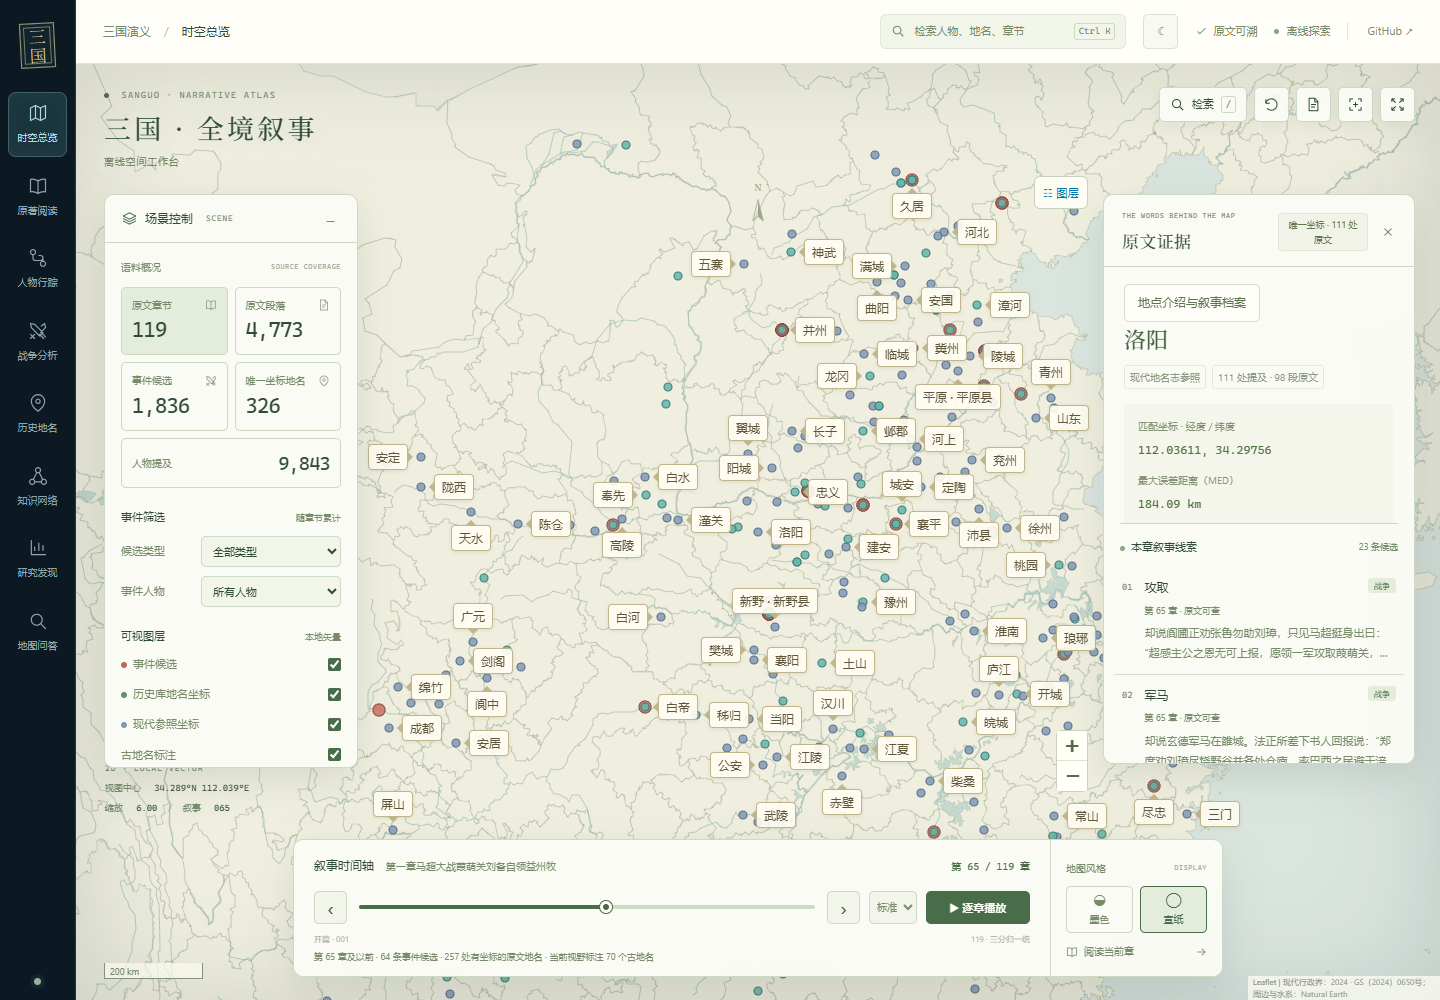
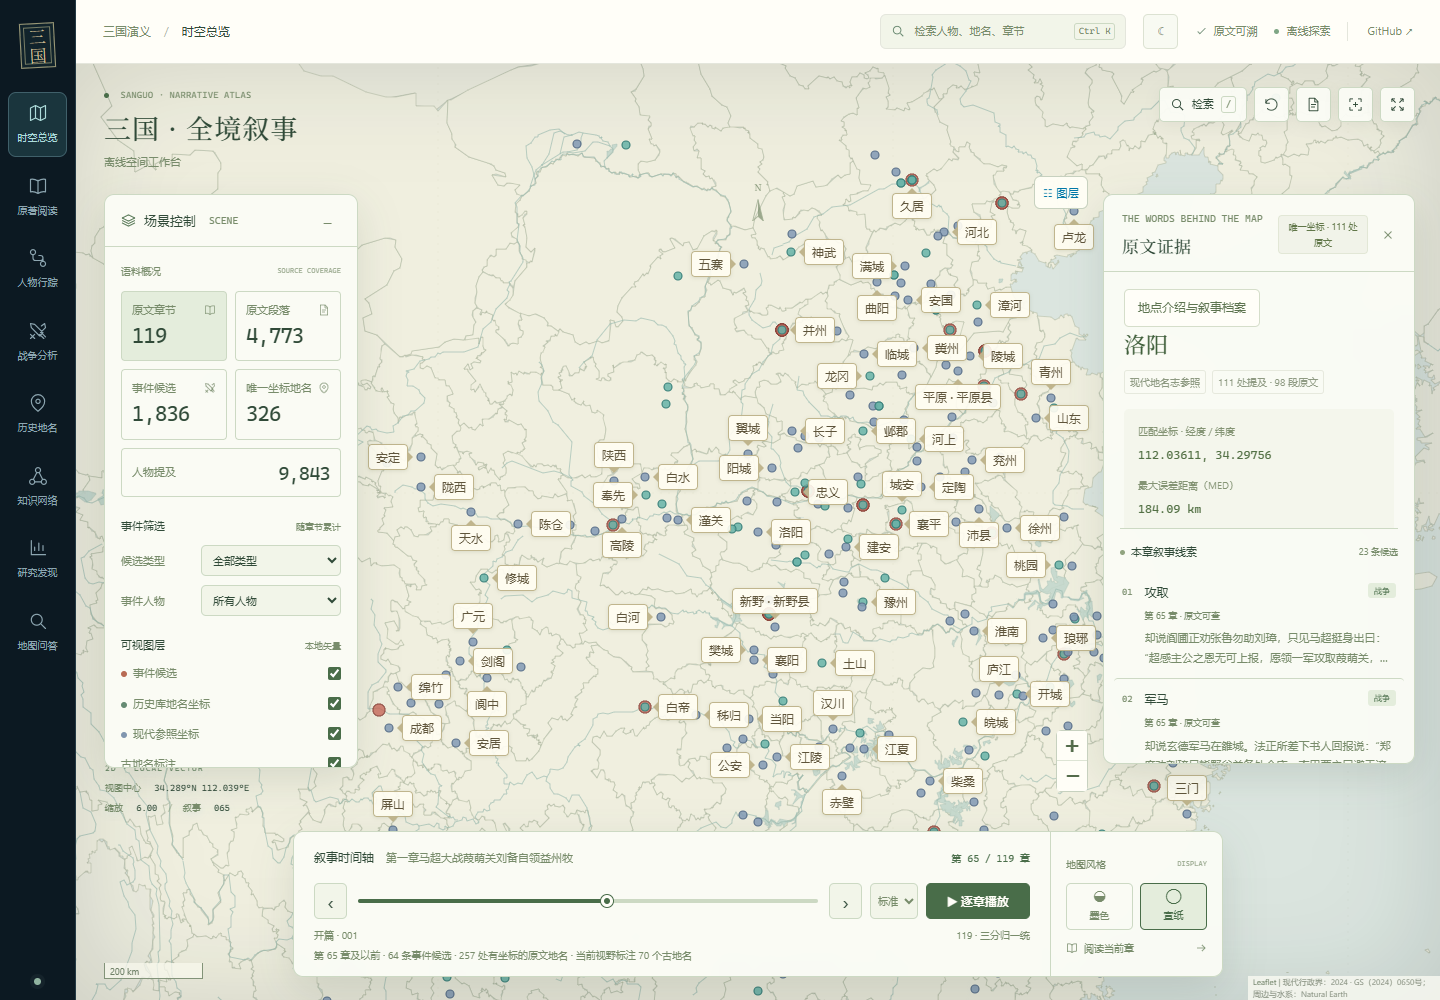
Refine atlas interface and add static deployment build

diff --git a/frontend/app.js b/frontend/app.js
@@ -34,7 +34,33 @@ function paragraphOrder(event) { return event.narrative_order || event.chapter_o
 function findChapter(id) { return state.chapters.find(row => row.chapter_id === id); }
 function geocodeByName(name) { return state.geocodeIndex?.get(name) || state.geocodes.find(row => row.historical_toponym === name); }
 
-async function loadData() {
+async function optionalJson(url) {
+  const response = await fetch(url);
+  if (response.status === 404) return null;
+  if (!response.ok) throw new Error(`${url}: HTTP ${response.status}`);
+  return response.json();
+}
+
+async function bundledData() {
+  const base = "/data/";
+  const [core, events, mentions, geocoding, admin, county, world] = await Promise.all([
+    optionalJson(base + "core.json"), optionalJson(base + "events.json"), optionalJson(base + "mentions.json"),
+    optionalJson(base + "geocodes.json"), optionalJson(base + "basemap-admin.json"),
+    optionalJson(base + "basemap-county.json"), optionalJson(base + "basemap-world.json")
+  ]);
+  if (!core) return null;
+  if (!events || !mentions || !geocoding || !admin || !county || !world) throw new Error("站点数据分片不完整");
+  return {
+    chapters: core.chapters, people: core.people, personMentions: mentions.characterMentions,
+    placeMentions: mentions.placeMentions, places: core.places, events: events.events, times: core.times,
+    geocodes: geocoding.geocodes, build: core.build, analysis: core.analysis, eventGeo: core.eventGeo,
+    bufferGeo: core.bufferGeo, kdeGeo: events.kdeGeo, trackGeo: core.trackGeo,
+    countries: world.countries, rivers: world.rivers, lakes: world.lakes,
+    adminProvince: admin.adminProvince, adminCity: admin.adminCity, adminCounty: county.adminCounty
+  };
+}
+
+async function legacyData() {
   const base = "/data/";
   const [chapters, people, personMentions, placeMentions, places, events, times, geocodes, build, analysis, eventGeo, bufferGeo, kdeGeo, trackGeo, countries, rivers, lakes, adminProvince, adminCity, adminCounty] = await Promise.all([
     json(base + "processed/chapters.json"), json(base + "extracted/characters.json"),
@@ -50,16 +76,27 @@ async function loadData() {
     json("/frontend/data/basemap/china_admin_2024/city.geojson"),
     json("/frontend/data/basemap/china_admin_2024/county.geojson")
   ]);
-  Object.assign(state, { chapters, people, peopleMentions: personMentions, placeMentions, places, events, times, geocodes, build, analysis, eventGeo, bufferGeo, kdeGeo, trackGeo, basemap: { countries, rivers, lakes, adminProvince, adminCity, adminCounty } });
+  return { chapters, people, personMentions, placeMentions, places, events, times, geocodes, build, analysis, eventGeo, bufferGeo, kdeGeo, trackGeo, countries, rivers, lakes, adminProvince, adminCity, adminCounty };
+}
+
+async function loadData() {
+  const data = (await bundledData()) || (await legacyData());
+  Object.assign(state, {
+    chapters: data.chapters, people: data.people, peopleMentions: data.personMentions,
+    placeMentions: data.placeMentions, places: data.places, events: data.events, times: data.times,
+    geocodes: data.geocodes, build: data.build, analysis: data.analysis, eventGeo: data.eventGeo,
+    bufferGeo: data.bufferGeo, kdeGeo: data.kdeGeo, trackGeo: data.trackGeo,
+    basemap: { countries: data.countries, rivers: data.rivers, lakes: data.lakes, adminProvince: data.adminProvince, adminCity: data.adminCity, adminCounty: data.adminCounty }
+  });
   state.paragraphTexts = new Map();
-  state.geocodeIndex = new Map(geocodes.map(row => [row.historical_toponym,row]));
-  for (const chapter of chapters) chapter.body.split(/\n[\t ]*\n+/).filter(text => text.length).forEach((text, index) => {
+  state.geocodeIndex = new Map(data.geocodes.map(row => [row.historical_toponym,row]));
+  for (const chapter of data.chapters) chapter.body.split(/\n[\t ]*\n+/).filter(text => text.length).forEach((text, index) => {
     state.paragraphTexts.set(`${chapter.chapter_id}_p_${String(index + 1).padStart(4,"0")}`, text);
   });
-  for (const row of placeMentions) { if (!state.placeMentionsByParagraph.has(row.paragraph_id)) state.placeMentionsByParagraph.set(row.paragraph_id, []); state.placeMentionsByParagraph.get(row.paragraph_id).push(row); }
-  for (const row of personMentions) { if (!state.peopleMentionsByParagraph.has(row.paragraph_id)) state.peopleMentionsByParagraph.set(row.paragraph_id, []); state.peopleMentionsByParagraph.get(row.paragraph_id).push(row); }
-  $("load-status").textContent = "本地数据已载入";
-  $("reader-chapter-count").textContent = `${chapters.length} 章`;
+  for (const row of data.placeMentions) { if (!state.placeMentionsByParagraph.has(row.paragraph_id)) state.placeMentionsByParagraph.set(row.paragraph_id, []); state.placeMentionsByParagraph.get(row.paragraph_id).push(row); }
+  for (const row of data.personMentions) { if (!state.peopleMentionsByParagraph.has(row.paragraph_id)) state.peopleMentionsByParagraph.set(row.paragraph_id, []); state.peopleMentionsByParagraph.get(row.paragraph_id).push(row); }
+  $("load-status").textContent = "站点数据已载入";
+  $("reader-chapter-count").textContent = `${data.chapters.length} 章`;
 }
 
 function setupNavigation() {
@@ -197,7 +234,6 @@ function setupMaps() {
   state.maps.overview.on("moveend", drawOverviewMap);
   state.maps.tracks.on("moveend", refreshTrackLabels);
   drawOverviewMap();
-  renderAnalysisMap();
 }
 
 function metricCard(label, value, note, symbol) {
@@ -852,17 +888,16 @@ async function main() {
     bindControls();
     const initial=location.hash.slice(1);
     showPage(PAGE_LABELS[initial] ? initial : "overview", false);
-    drawTracks(); drawNetwork();
     if (state.chapters.length !== 119) throw new Error(`Expected 119 chapters, loaded ${state.chapters.length}`);
     $("app-loading").hidden = true;
     if (typeof cockpitReady === "function") cockpitReady();
   } catch (error) {
     console.error(error);
-    $("load-status").textContent = "本地数据读取失败";
+    $("load-status").textContent = "站点数据加载失败";
     $("load-status").style.color = "#d27761";
     $("app-loading").classList.add("load-error");
-    $("app-loading").querySelector("strong").textContent="本地数据暂未载入";
-    $("loading-message").textContent="请确认本地服务仍在运行，然后重新加载。";
+    $("app-loading").querySelector("strong").textContent="站点数据暂未载入";
+    $("loading-message").textContent="请刷新页面重试；本地预览时请确认本地服务仍在运行。";
     $("load-retry").hidden=false;
     toast(`数据加载失败：${error.message}`);
   }

diff --git a/frontend/atlas-refinement.css b/frontend/atlas-refinement.css
@@ -1,0 +1,78 @@
+/* Design refinement informed by unslop, Damir Sokolovsky, CC BY 4.0.
+   https://github.com/heydamir/unslop */
+/* Shared reading rhythm: the map, text, and evidence carry the emphasis. */
+:root{--atlas-rule:var(--line);--atlas-space:24px}
+main{padding:32px clamp(20px,2.4vw,40px) 48px}
+.page-heading{margin-bottom:24px}
+.page-heading h1{font-weight:500;line-height:1.35;letter-spacing:.03em}
+.page-heading .lede{max-width:70ch;font-size:14px;line-height:1.8}
+.page-heading .eyebrow,.panel-head .eyebrow,.assistant-suggestions .eyebrow,.track-player-heading .eyebrow{font-size:10px;letter-spacing:.02em;line-height:1.6}
+.panel{box-shadow:none;border-radius:8px}
+.panel-head{padding:20px 24px;gap:16px}
+.panel-head h2{font-size:17px;font-weight:500}
+.panel-head p:not(.eyebrow){font-size:12px;line-height:1.6}
+.caption{font-size:12px;line-height:1.8}
+.icon{stroke-width:1.5}
+.list-row{padding:12px 8px;border-radius:4px}
+.list-row-title{font-size:13px}.list-row-meta{font-size:11px;gap:8px}.list-row-excerpt{font-size:12px;line-height:1.7}
+.pill,.status-tag,.event-type{box-shadow:none;font-weight:400}
+button:focus-visible,a:focus-visible,input:focus-visible,select:focus-visible,textarea:focus-visible,[tabindex="0"]:focus-visible{outline:2px solid var(--accent);outline-offset:2px}
+
+/* The reader has a compact directory and a generous text measure. */
+.reader-layout{gap:24px}
+.chapter-list{padding:0 12px 16px}
+.chapter-item{padding:12px;font-size:12px;line-height:1.6}
+.chapter-item span{font-size:11px;font-variant-numeric:tabular-nums}
+.reader-toolbar{padding:24px;gap:16px}
+.reader-title-group h2{font-weight:500;line-height:1.5}
+.reader-text{max-width:880px;line-height:2.15;padding:32px clamp(24px,4vw,64px) 56px}
+.reading-settings{gap:12px}
+
+/* Tracks share a chapter clock; the evidence list is the companion column. */
+.people-toolbar{padding:16px 20px;gap:12px;margin-bottom:20px}
+.people-grid,.analysis-grid{gap:20px}
+.track-player{padding:20px 24px 16px}
+.track-player-heading strong{font-size:15px}
+#track-chapter-title{font-size:12px;line-height:1.6}
+.track-play-controls{gap:8px}
+.track-legend{gap:8px;padding:16px 24px;background:var(--surface)}
+.track-person-card{padding:12px;line-height:1.6}
+.track-person-card p{font-size:12px}
+.track-person-card small,.track-person-card .text-button{font-size:11px}
+
+/* Tables, analytical views, and the network retain their original evidence. */
+.analysis-table-panel,.place-explorer{margin-top:20px}
+.place-row{gap:16px;padding:16px 24px;font-size:12px}
+.place-row.header{font-size:11px}
+.table-summary,.table-pagination{padding-left:24px;padding-right:24px}
+.network-layout{gap:20px}
+.graph-guide,.graph-legend{font-size:12px}
+.finding-card{box-shadow:none}
+.finding-columns{gap:24px}
+
+/* Questions are grounded in the text, with evidence easy to scan and open. */
+.assistant-layout{grid-template-columns:minmax(0,1fr) 300px;gap:20px}
+.assistant-messages{padding:8px 24px 20px}
+.assistant-answer,.assistant-question{padding:16px 20px;font-size:14px;line-height:1.8}
+.assistant-answer h3{font:500 17px/1.5 var(--serif)}
+.answer-method{font-size:11px}
+.assistant-suggestions{padding:24px}
+.assistant-suggestions>button{padding:12px;font-size:13px;line-height:1.5}
+.source-evidence{padding:12px 16px}.source-evidence>span,.source-evidence small{font-size:11px}
+.source-evidence p{font-size:14px;line-height:1.8}
+#assistant-form{padding:20px 24px}
+#assistant-input{font-size:14px}
+.place-profile h3{font-weight:500}.profile-intro{font-size:14px;line-height:1.8}
+
+@media(max-width:1050px){.assistant-layout{grid-template-columns:minmax(0,1fr)}}
+@media(max-width:780px){
+ main{padding:20px 16px 32px}
+ .page-heading{margin-bottom:20px}.page-heading h1{font-size:26px}.page-heading .lede{font-size:13px}
+ .panel-head{padding:16px}.reader-layout,.people-grid,.analysis-grid,.network-layout{gap:16px}
+ .reader-toolbar{padding:16px}.reader-text{padding:24px 20px 40px;line-height:2}
+ .track-player{padding:16px}.track-legend{padding:12px 16px 16px}
+ .assistant-messages{padding:8px 16px 16px}.assistant-answer,.assistant-question{padding:14px;font-size:13px}
+ #assistant-form,.assistant-suggestions{padding:16px}
+ .place-row{padding:14px 16px}.table-summary,.table-pagination{padding-left:16px;padding-right:16px}
+}
+@media(prefers-reduced-motion:reduce){.track-head{animation:none}}

diff --git a/frontend/index.html b/frontend/index.html
@@ -10,6 +10,7 @@
   <link rel="stylesheet" href="/frontend/style.css?v=7">
   <link rel="stylesheet" href="/frontend/cockpit.css?v=7">
   <link rel="stylesheet" href="/frontend/interactions.css?v=7">
+  <link rel="stylesheet" href="/frontend/atlas-refinement.css?v=1">
 </head>
 <body>
   <a class="skip-link" href="#workspace-main">跳到主要内容</a>
@@ -51,12 +52,12 @@
       <button class="nav-item" data-page="assistant"><svg class="icon"><use href="#icon-search"/></svg><span>地图问答</span><small>08</small></button>
     </nav>
     <div class="sidebar-note"><svg class="icon"><use href="#icon-compass"/></svg><p>以文为据，以图见史。</p><span>在字里行间，发现叙事的山河。</span><a href="/docs/FINAL_PROJECT_REPORT.md" target="_blank" rel="noopener">了解数据与方法 <span aria-hidden="true">↗</span></a></div>
-    <div class="header-meta"><span class="live-dot"></span><div><span class="meta-key">本地工作空间</span><span id="load-status" role="status">正在读取本地数据…</span></div></div>
+    <div class="header-meta"><span class="live-dot"></span><div><span class="meta-key">站点数据</span><span id="load-status" role="status">正在载入站点数据…</span></div></div>
   </header>
 
   <div class="workspace-bar"><div class="workspace-breadcrumb"><span>三国演义</span><span aria-hidden="true">/</span><strong id="current-page-label">时空总览</strong></div><div class="workspace-meta"><span><svg class="icon"><use href="#icon-check"/></svg> 原文可溯</span><span class="workspace-offline"><span class="live-dot"></span>离线探索</span><a href="https://github.com/ANXU-CRAZY/sanguo_map" target="_blank" rel="noopener" aria-label="打开项目 GitHub 仓库">GitHub ↗</a></div></div>
   <main id="workspace-main" tabindex="-1">
-    <div id="app-loading" class="loading-banner" role="status"><span class="loading-spinner" aria-hidden="true"></span><div><strong>正在展开这卷山河</strong><span id="loading-message">正在读取本地原文、地名与地图图层…</span></div><button id="load-retry" class="secondary-button" hidden>重新加载</button></div>
+    <div id="app-loading" class="loading-banner" role="status"><span class="loading-spinner" aria-hidden="true"></span><div><strong>正在展开这卷山河</strong><span id="loading-message">正在载入内置原文、地名与地图图层…</span></div><button id="load-retry" class="secondary-button" hidden>重新加载</button></div>
     <section class="page active" id="page-overview">
       <div class="page-heading">
         <div><p class="eyebrow"><span class="eyebrow-line"></span> A LITERARY ATLAS OF THE THREE KINGDOMS</p><h1>在字里行间，遇见三国<span class="heading-period">。</span></h1><p class="lede">以原文章节为线索，探索人物、地名与事件的空间关联。</p></div>
@@ -142,7 +143,7 @@
   <div id="toast" role="status" aria-live="polite"></div>
   <button id="back-top" class="back-top" aria-label="返回页面顶部" title="返回顶部" hidden>↑</button>
   <script src="/frontend/assets/vendor/leaflet.js"></script>
-  <script src="/frontend/app.js?v=7"></script>
+  <script src="/frontend/app.js?v=8"></script>
   <script src="/frontend/tracks.js?v=7"></script>
   <script src="/frontend/map-assistant.js?v=7"></script>
   <script src="/frontend/cockpit.js?v=7"></script>

diff --git a/frontend/cockpit.css b/frontend/cockpit.css
@@ -138,3 +138,32 @@ body.is-cockpit{overflow:hidden}body.is-cockpit main{padding:0;min-height:0}body
 }
 @media(max-width:360px){.cockpit-heading h1{font-size:20px}.cockpit-heading .eyebrow{font-size:6px}.cockpit-map-actions{max-width:74px;gap:5px}.cockpit-map-actions .icon-button{width:29px;height:29px}.cockpit-world .detail-panel>.panel-head .eyebrow{font-size:6px}.cockpit-world .timeline-control{padding:15px}.dock-display{padding:14px 15px}.workspace-breadcrumb{font-size:10px}.quick-search-footer>span:first-child{max-width:180px}}
 @media(prefers-reduced-motion:reduce){.cockpit-world *,.quick-search-dialog *{animation:none!important;transition:none!important}}
+/* Interface refinement inspired by unslop, Damir Sokolovsky (CC BY 4.0):
+   https://github.com/heydamir/unslop — the map remains the visual focus. */
+.page-heading .eyebrow,.panel-head .eyebrow,.cockpit-heading .eyebrow,.cockpit-panel-head small,.cockpit-section-label>span,.quick-search-head .eyebrow{letter-spacing:.02em}
+.cockpit-heading h1{letter-spacing:.04em;text-shadow:none}
+.cockpit-heading h1>span{letter-spacing:0;font-size:11px}
+.cockpit-panel-head{padding:12px 16px}
+.cockpit-panel-head>span{font-size:13px;font-weight:500}
+.cockpit-panel-head small{font-size:10px;letter-spacing:0}
+#scene-panel-body{padding:16px}
+.cockpit-world .stat-grid{gap:8px}
+.cockpit-world .stat-card{border-radius:4px;box-shadow:none}
+.cockpit-world .stat-card>span{font-size:11px}
+.cockpit-world .stat-card strong,.track-person-card strong span,.profile-stats strong{font-variant-numeric:tabular-nums}
+.cockpit-world .detail-panel .eyebrow{font-size:10px;letter-spacing:0}
+.cockpit-world .timeline-chapter-title{font-size:11px}
+.cockpit-world .timeline-ends,.cockpit-world .map-dynamic-status{font-size:10px;opacity:1}
+.cockpit-world .timeline-actions{gap:8px}
+.cockpit-world .timeline-actions button,.cockpit-world .timeline-actions select{height:36px}
+.cockpit-world .timeline-actions .chapter-play{font-size:12px}
+.scene-provenance{font-size:10px;opacity:1}
+.nav-item.active{box-shadow:none}
+.track-head.is-current{animation:none}
+@media(max-width:780px){
+ .cockpit-heading .eyebrow{font-size:10px;letter-spacing:0}
+ .cockpit-heading h1{letter-spacing:.04em}
+ .cockpit-world .detail-panel>.panel-head .eyebrow{font-size:10px}
+ .cockpit-world .timeline-actions button,.cockpit-world .timeline-actions select{height:40px}
+ .cockpit-world .timeline-actions .chapter-play{height:40px}
+}

diff --git a/README.md b/README.md
@@ -17,6 +17,8 @@ $py = 'F:\history_sites\hisgeo_reproduction\.venv-final\Scripts\python.exe'
 
 浏览器打开 <http://127.0.0.1:8765/>。`build_project.py` 全程离线，会核验原文与 His-Geo 版本、生成结构化文本、确定性抽取、单独的 His-Geo 评价记录、SQLite、GeoJSON / GeoPackage 和分析汇总。它不会调用 LLM、外部地图瓦片或任何 API。
 
+部署静态站时，用 `node scripts/build_static_site.mjs` 生成 `dist/`：前端资源与全部页面数据打包为 7 个内置 JSON 分片。为保护已有结果，输出目录必须不存在；也可以用 `node scripts/build_static_site.mjs --out <新目录>` 指定新的输出目录。
+
 如 His-Geo 仓库路径改变，编辑 `configs/project.json` 的本地路径；代码会拒绝使用非预期的 His-Geo commit 或有改动的工作树。原文、His-Geo 及参考项目均不由本项目脚本写入。
 
 ## 数据解释
